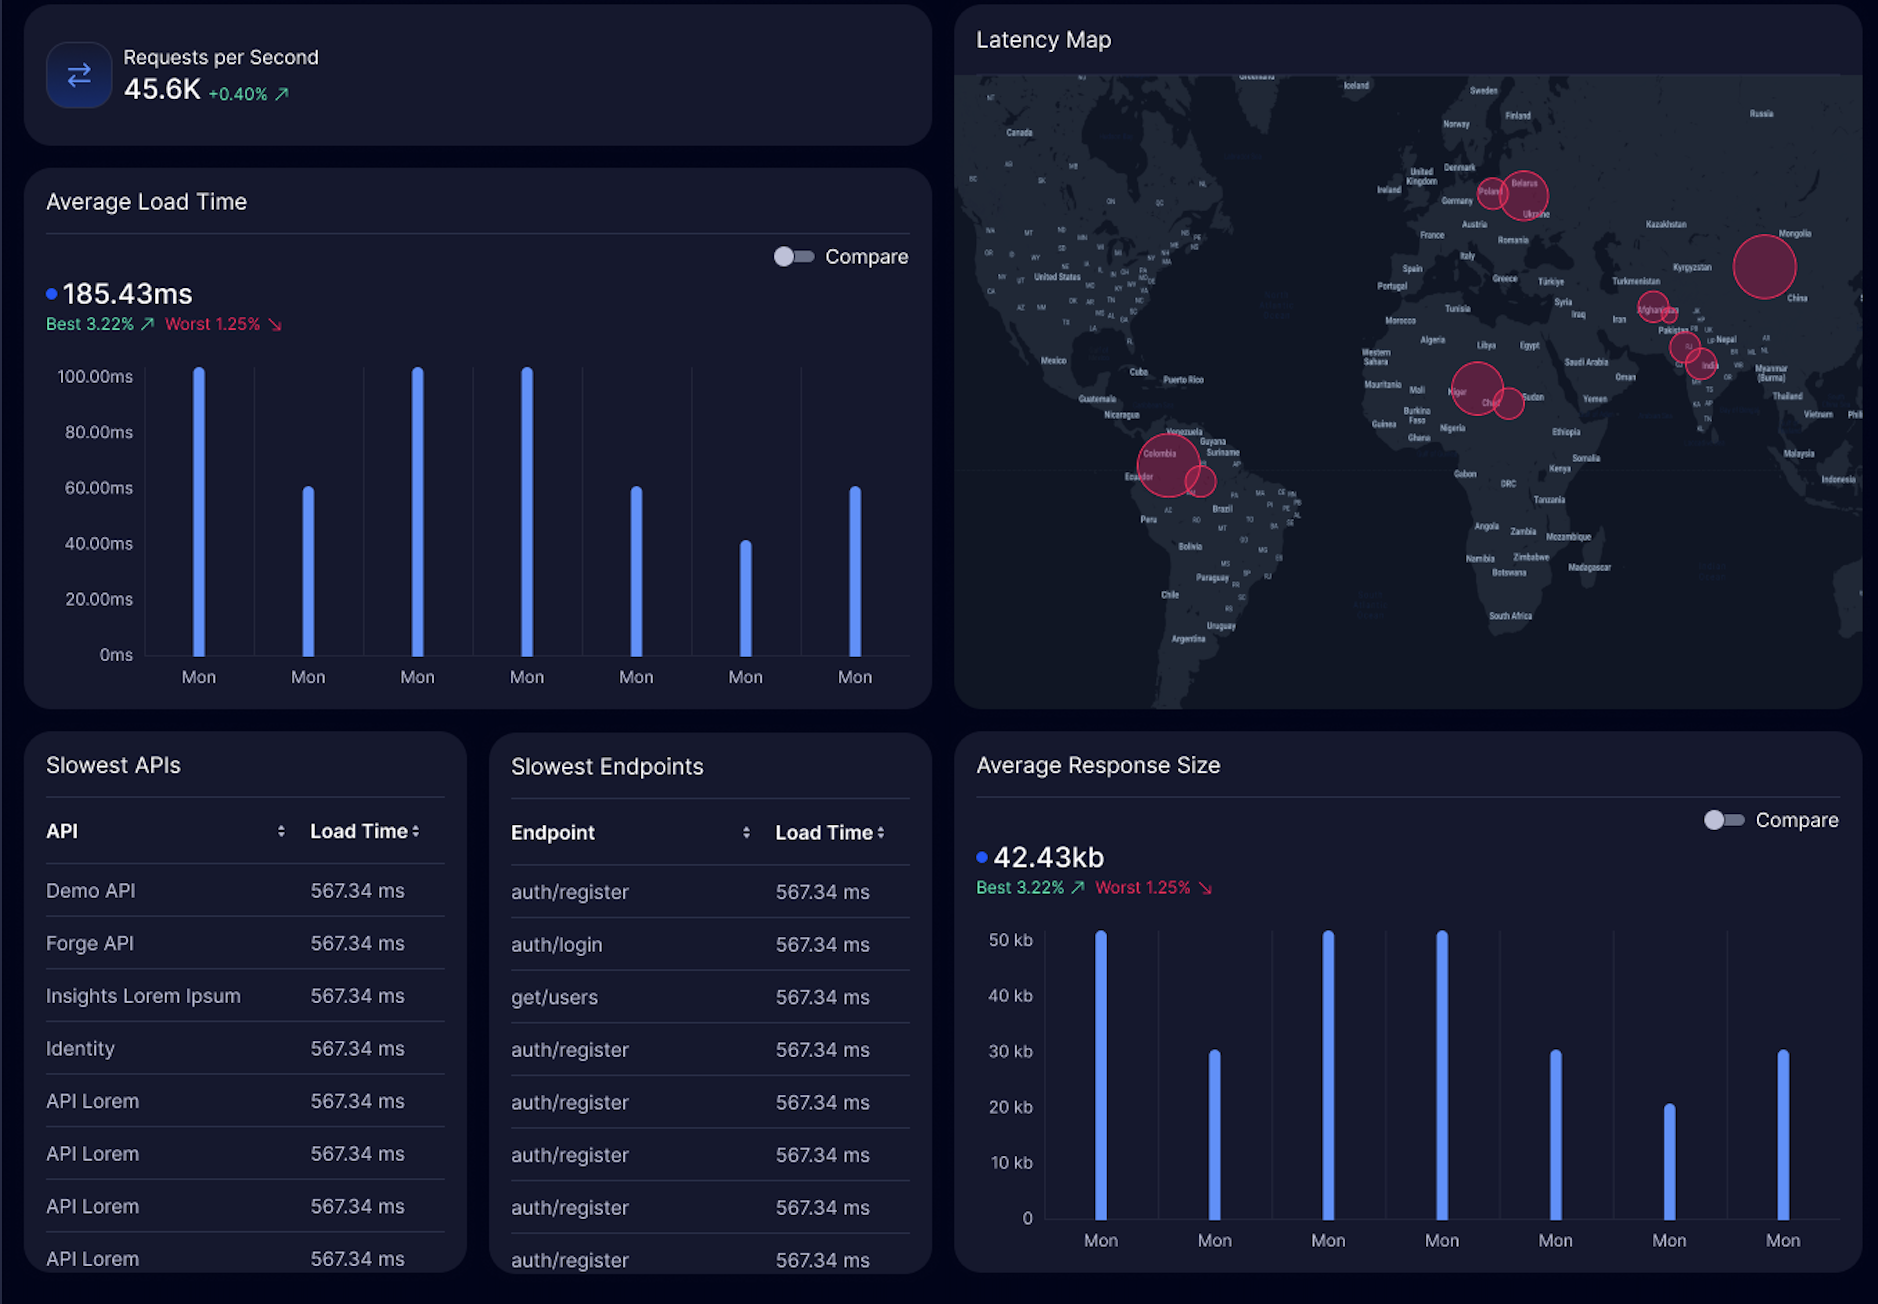
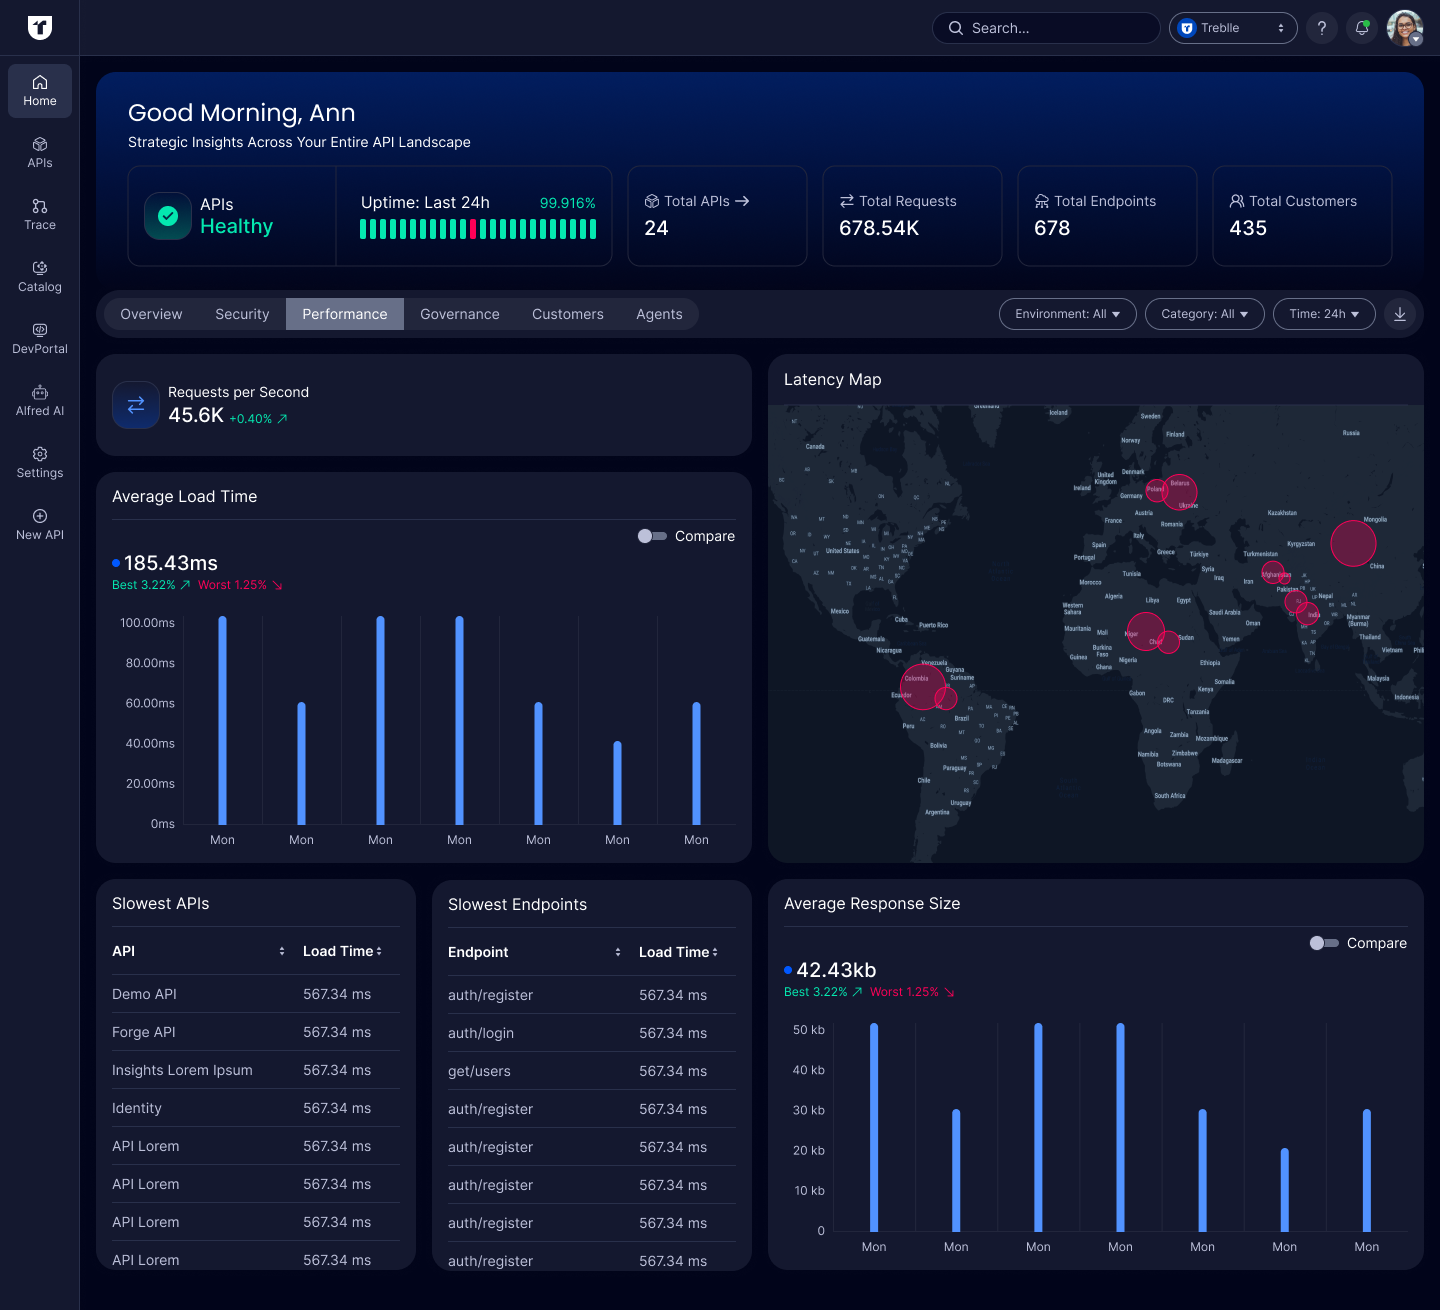
sad je gotovo zaprave, bugovi ispravljeni

diff --git a/app/explore-treblle/workspace/home/_meta.tsx b/app/explore-treblle/workspace/home/_meta.tsx
@@ -1,8 +1,8 @@
 export default {
     "home-overview": "Overview",
     "home-security": "Security",
-    // "home-performance": "Performance",
-    // "home-governance": "Governance",
-    // "home-customers": "Customers",
-    // "home-agents": "Agents"
+    "home-performance": "Performance",
+    "home-governance": "Governance",
+    "home-customers": "Customers",
+    "home-agents": "Agents"
   }
